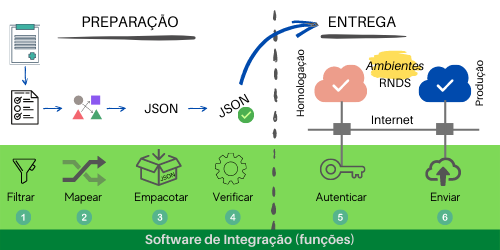
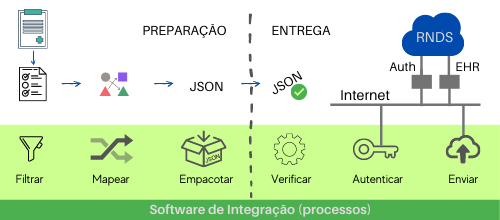
documentacao

diff --git a/guia/docs/si.md b/guia/docs/si.md
@@ -21,25 +21,26 @@ representativos e estão explicitamente indicados na figura abaixo.
 
 ![img](../static/img/rnds-uc.png)
 
-A documentação enfatiza _Obter token de acesso_ e _Enviar resultado de exame_. Não apenas por serem os principais, mas porque cobrem tudo o
-que é necessário também pelos demais serviços.
+O diagrama acima contempla _Obter token de acesso_ e _Enviar resultado de exame_, não apenas por serem os principais, mas porque cobrem tudo o
+que é necessário nos demais serviços.
 
-O caso de uso _Obter token de acesso_ implementa segurança e seu processo é essencialmente técnico. Por meio deste caso de uso, empregando o certificado digital do laboratório, obtém-se o _token_ necessário para usufruir dos demais serviços. No diagrama fornecido abaixo, este caso de uso é realizado por meio da função "Autenticar". Todas as demais funções,
-por outro lado, são necessárias para implementar o caso de uso _Enviar resultado de exame_.
+Na perspectiva de processos (funções) e do fluxo de informações entre eles, o diagrama correspondente é fornecido abaixo. Aqueles destacados estão diretamente associados aos casos de uso identificados acima, ou seja, fazem parte do escopo a ser implementado. Os demais processos (funções) são necessários, mas ao mesmo tempo, dependentes do ecossistema do laboratório.
 
 ![img](../static/img/rnds-dfd.png)
 
 Cada função é definida e classificada quanto à fase em que é executada (preparação ou entrega).
 
 - PREPARAÇÃO
-  1.  **Filtrar**. Dentre os dados produzidos para um laudo, aqueles necessários são selecionados.
-  1.  **Mapear**. código empregados pelo laboratório e/ou transformações de dados necessários para se adequar às exigências da RNDS;
-  1.  **Empacotar** os dados na representação a ser utilizada para envio (JSON).
-  1.  **Verificar** o documento JSON correspondente ao laudo a ser enviado.
+
+  1.  **Filtrar**. Seleciona os dados de um resultado de exame a partir dos quais aqueles exigidos pela RNDS serão produzidos.
+  1.  **Mapear**. Realiza a conversão e/ou mapeamento necessário entre os dados selecionados (filtrados) e aqueles no formato exigido pela RNDS.
+  1.  **Empacotar**. Cria a representação JSON dos dados correspondentes a um
+      resultado.
+
 - ENTREGA
-  1.  **Autenticar**. Obter a chave de acesso aos serviços.
-  1.  **Enviar**. Atividade que notifica o resultado de um exame, conforme
-      padrões estabelecidos pela RNDS, ao Ministério da Saúde.
+  1.  **Verificar**. Confere se o empacotamento do resultado a ser enviado está consistente com especificação da RNDS.
+  1.  **Autenticar**. Obtém a chave de acesso aos serviços.
+  1.  **Enviar**. Notifica o resultado de um exame.
 
 A figura abaixo ilustra a classificação das funções, a ordem em que devem ser executadas e os dois ambientes (de homologação e produção).
 A fase de preparação reúne funções "locais" ao laboratório, não demandam interação com um dos ambientes da RNDS. Por outro lado, as funções da
